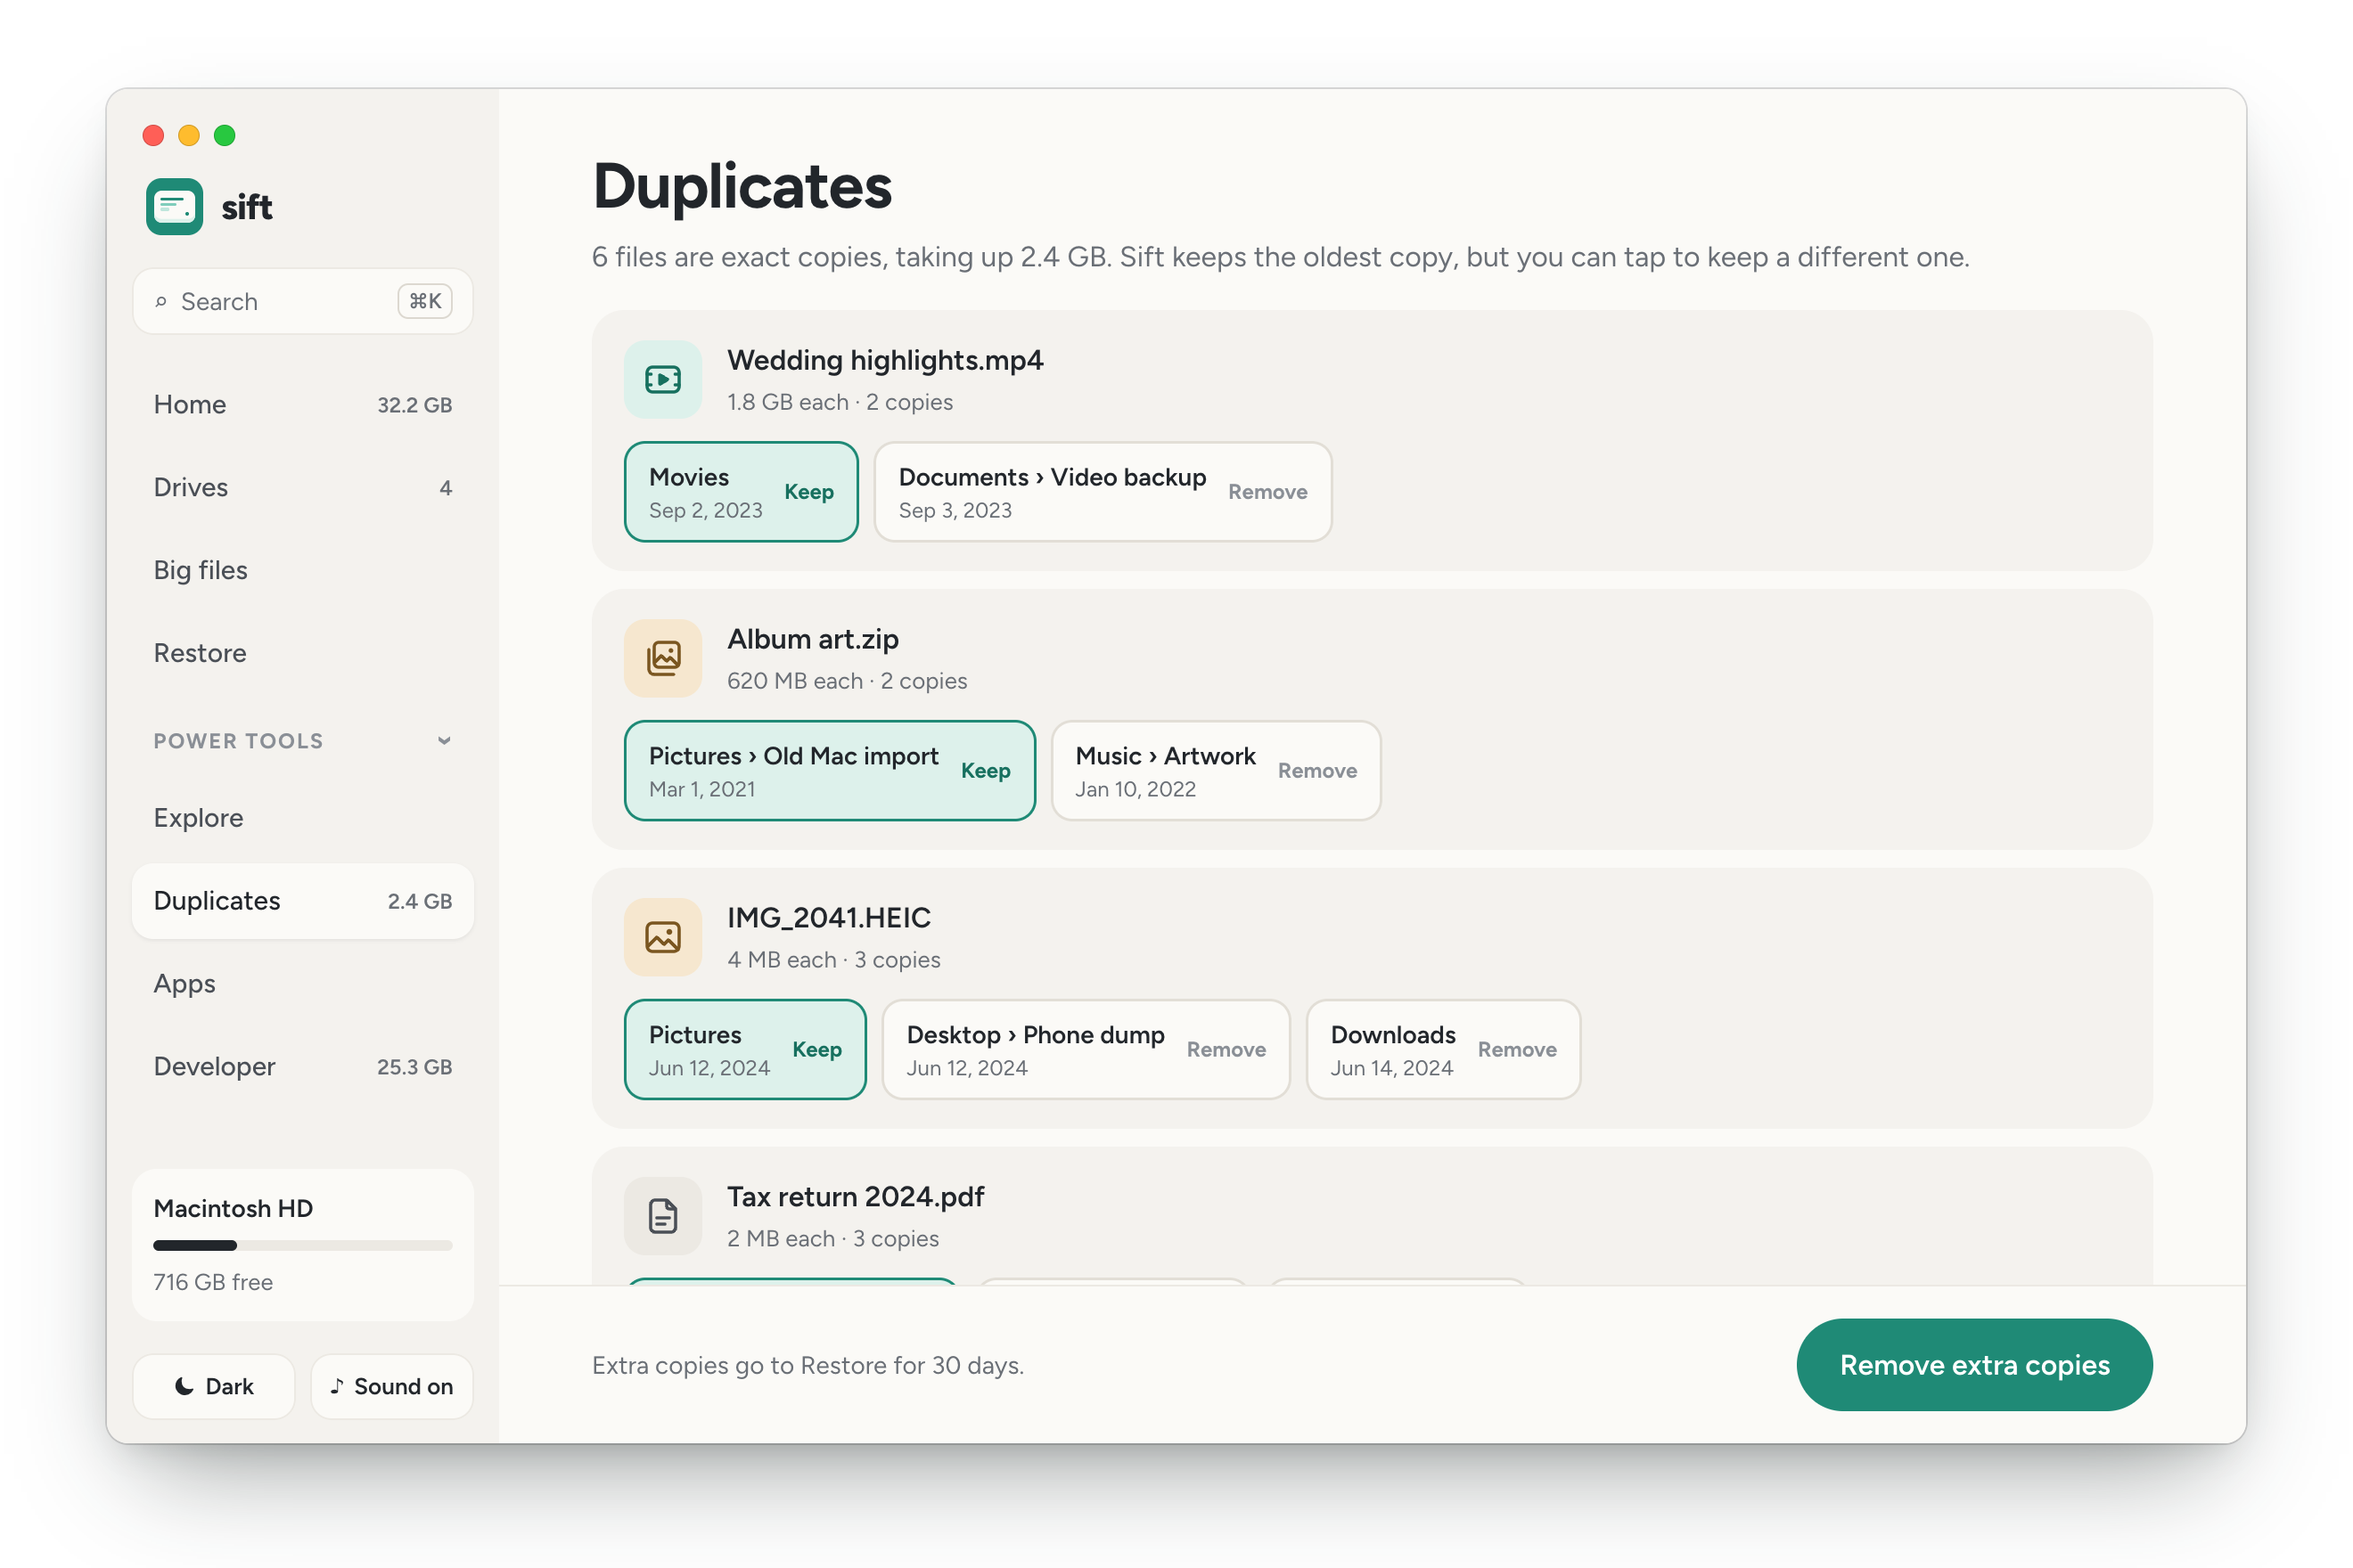
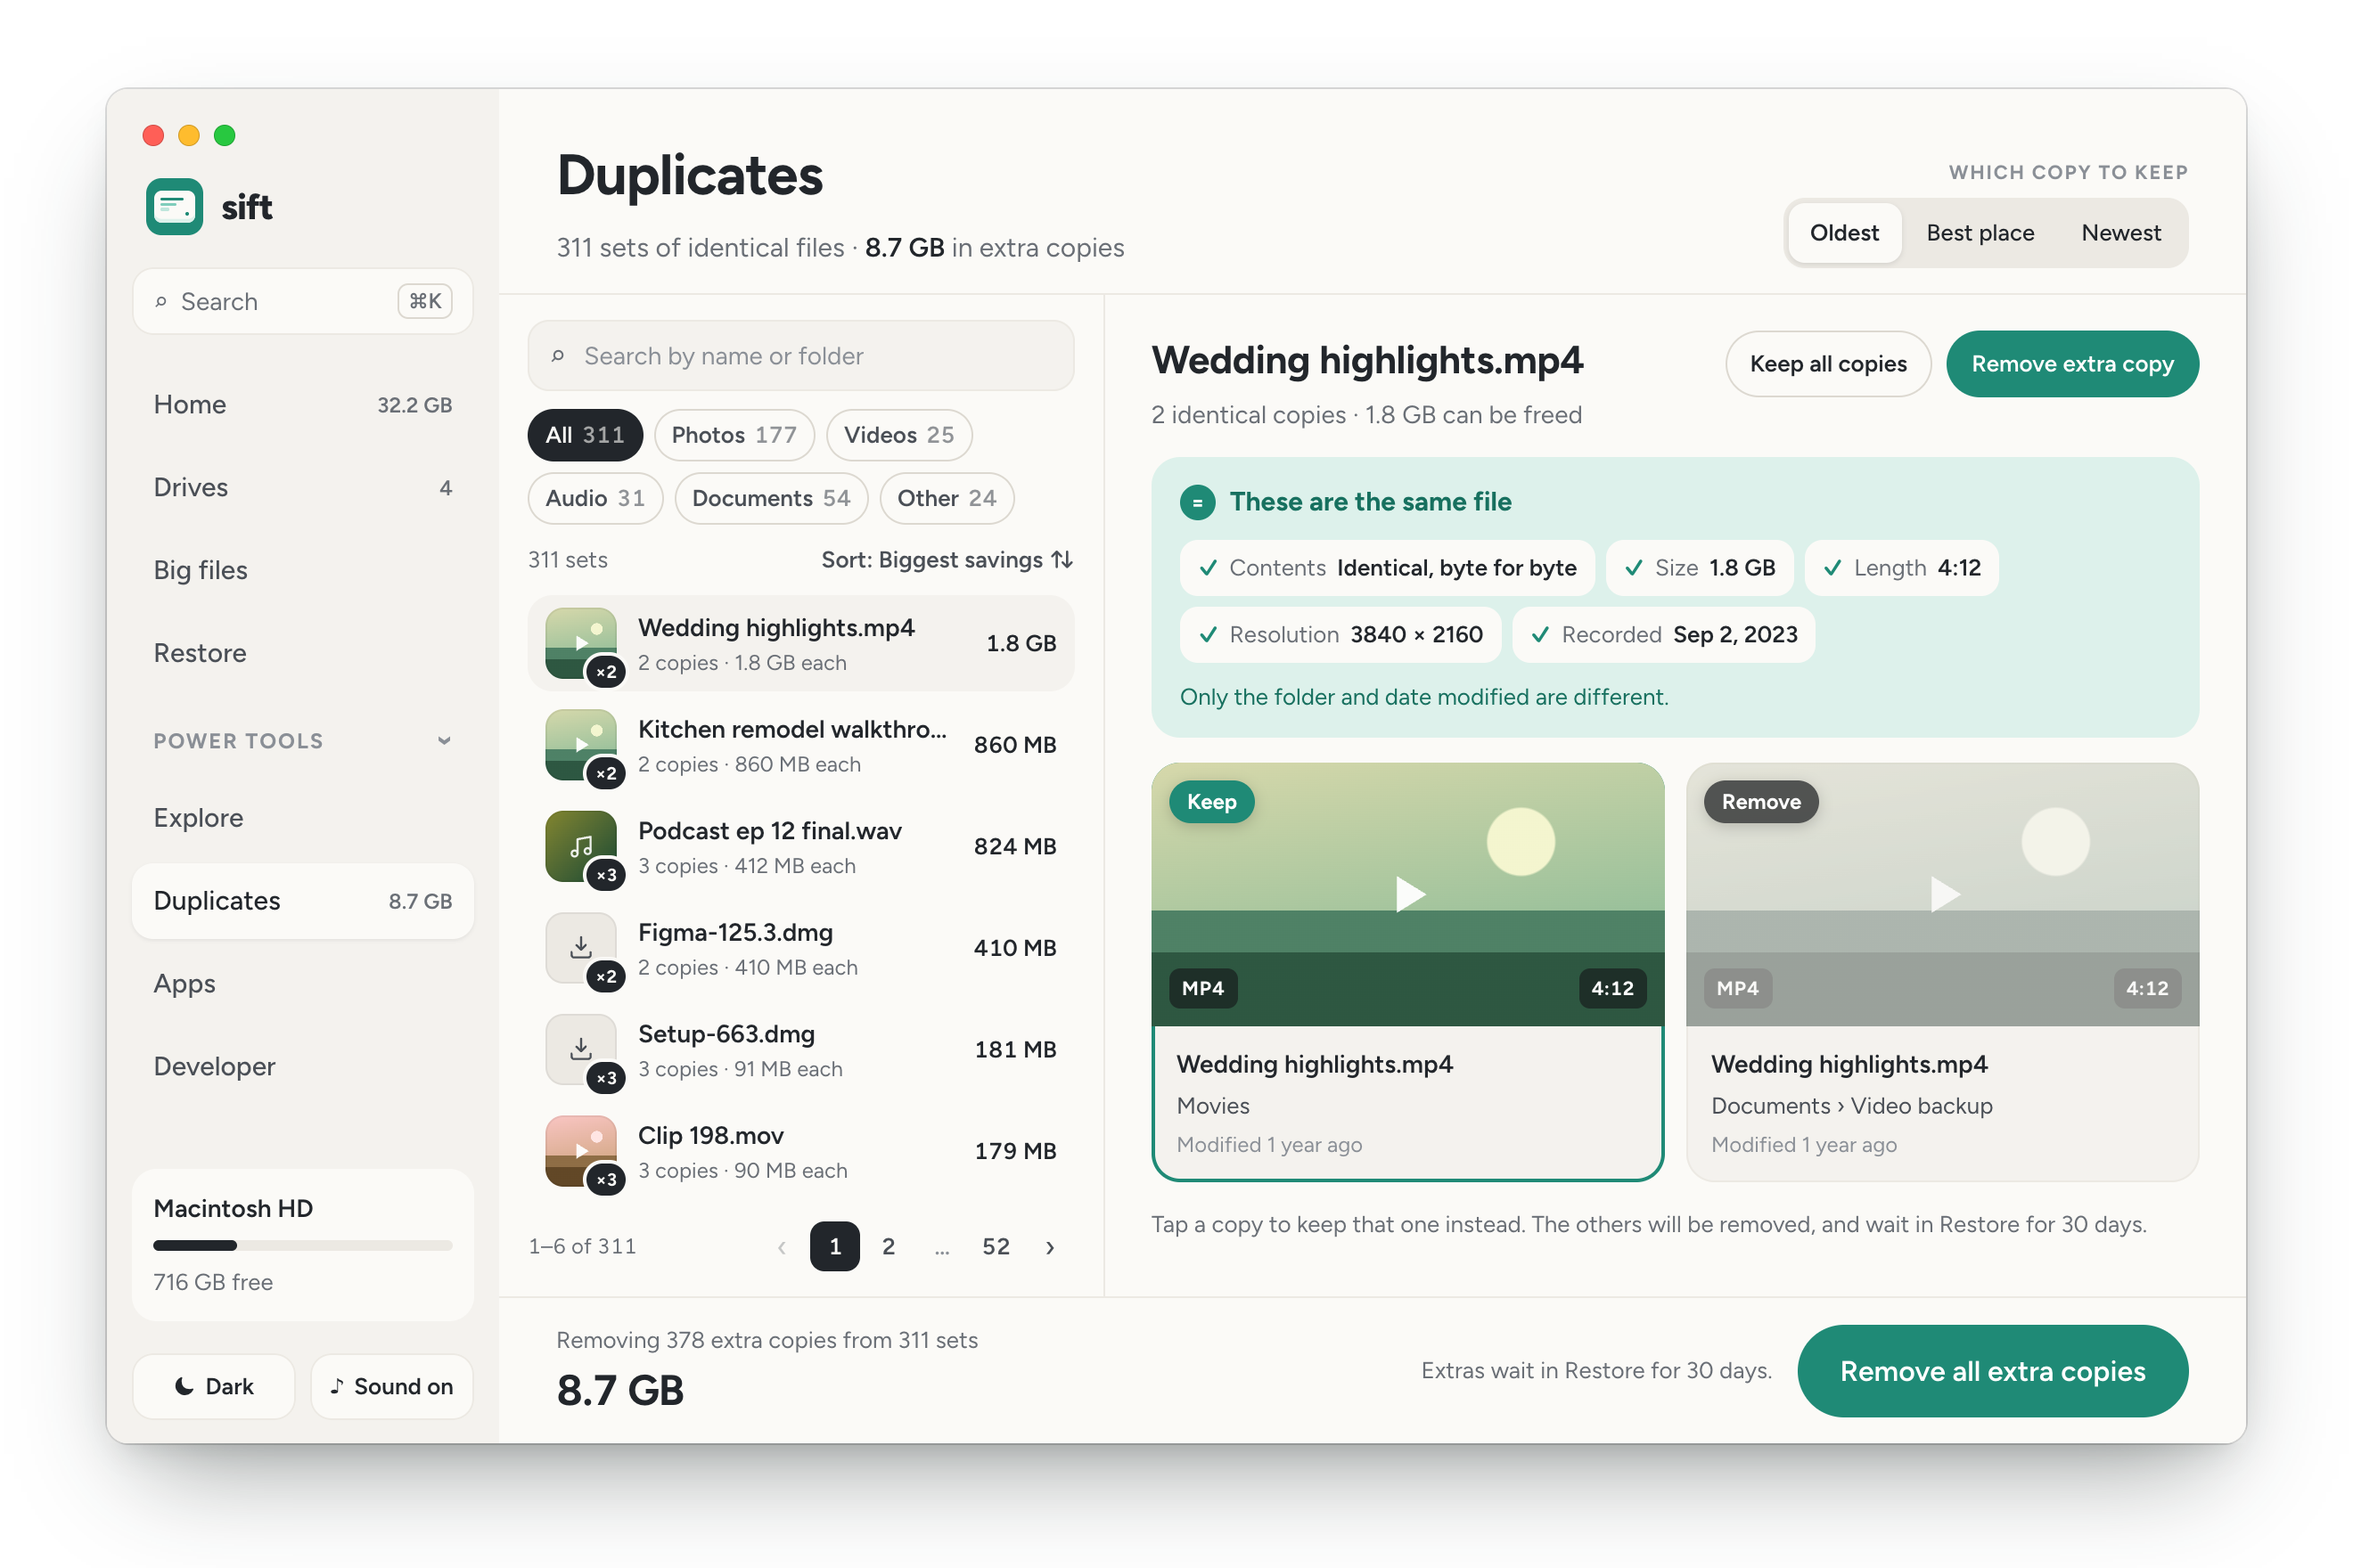
Update Duplicates screenshot for v1.1.0

diff --git a/README.md b/README.md
@@ -23,7 +23,7 @@ Nothing is deleted on the spot. Whatever Sift removes waits in **Restore** for 3
 
 <p align="center">
   <img src="assets/screenshots/restore.png" alt="Restore: removed items kept for 30 days with Restore and Clear now buttons, and a Cleared for good section" width="420">
-  <img src="assets/screenshots/duplicates.png" alt="Duplicates: exact copies grouped together, keeping the oldest by default" width="420">
+  <img src="assets/screenshots/duplicates.png" alt="Duplicates: sets of identical files listed by how much they free, with the selected set's copies side by side, a Keep or Remove label on each, and a choice of keeping the oldest, best-placed or newest copy" width="420">
 </p>
 
 <details>
